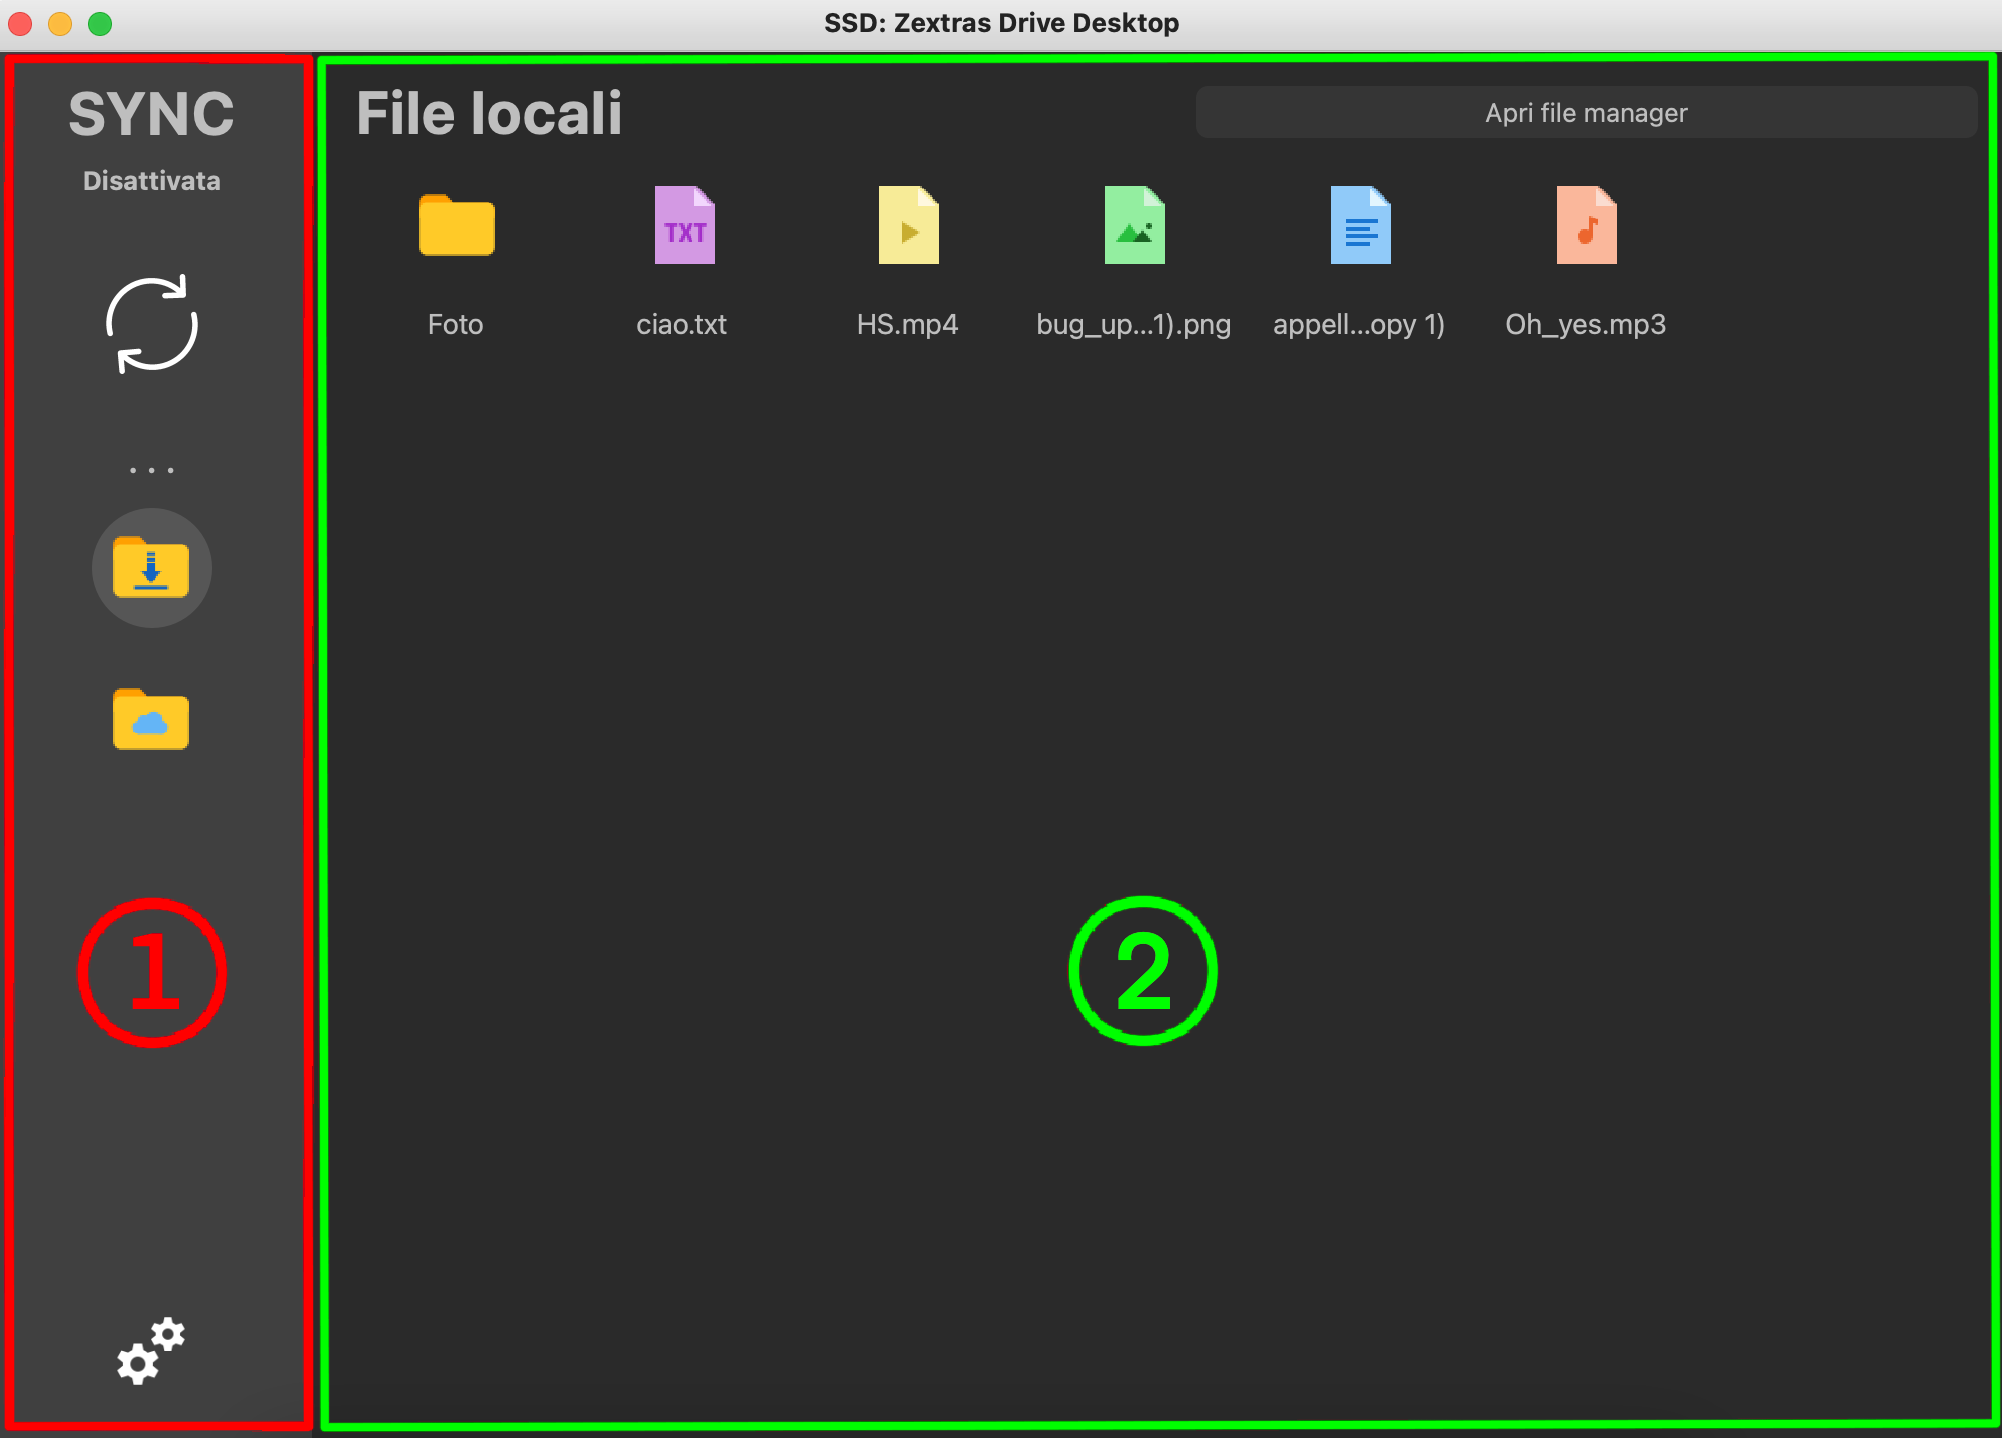
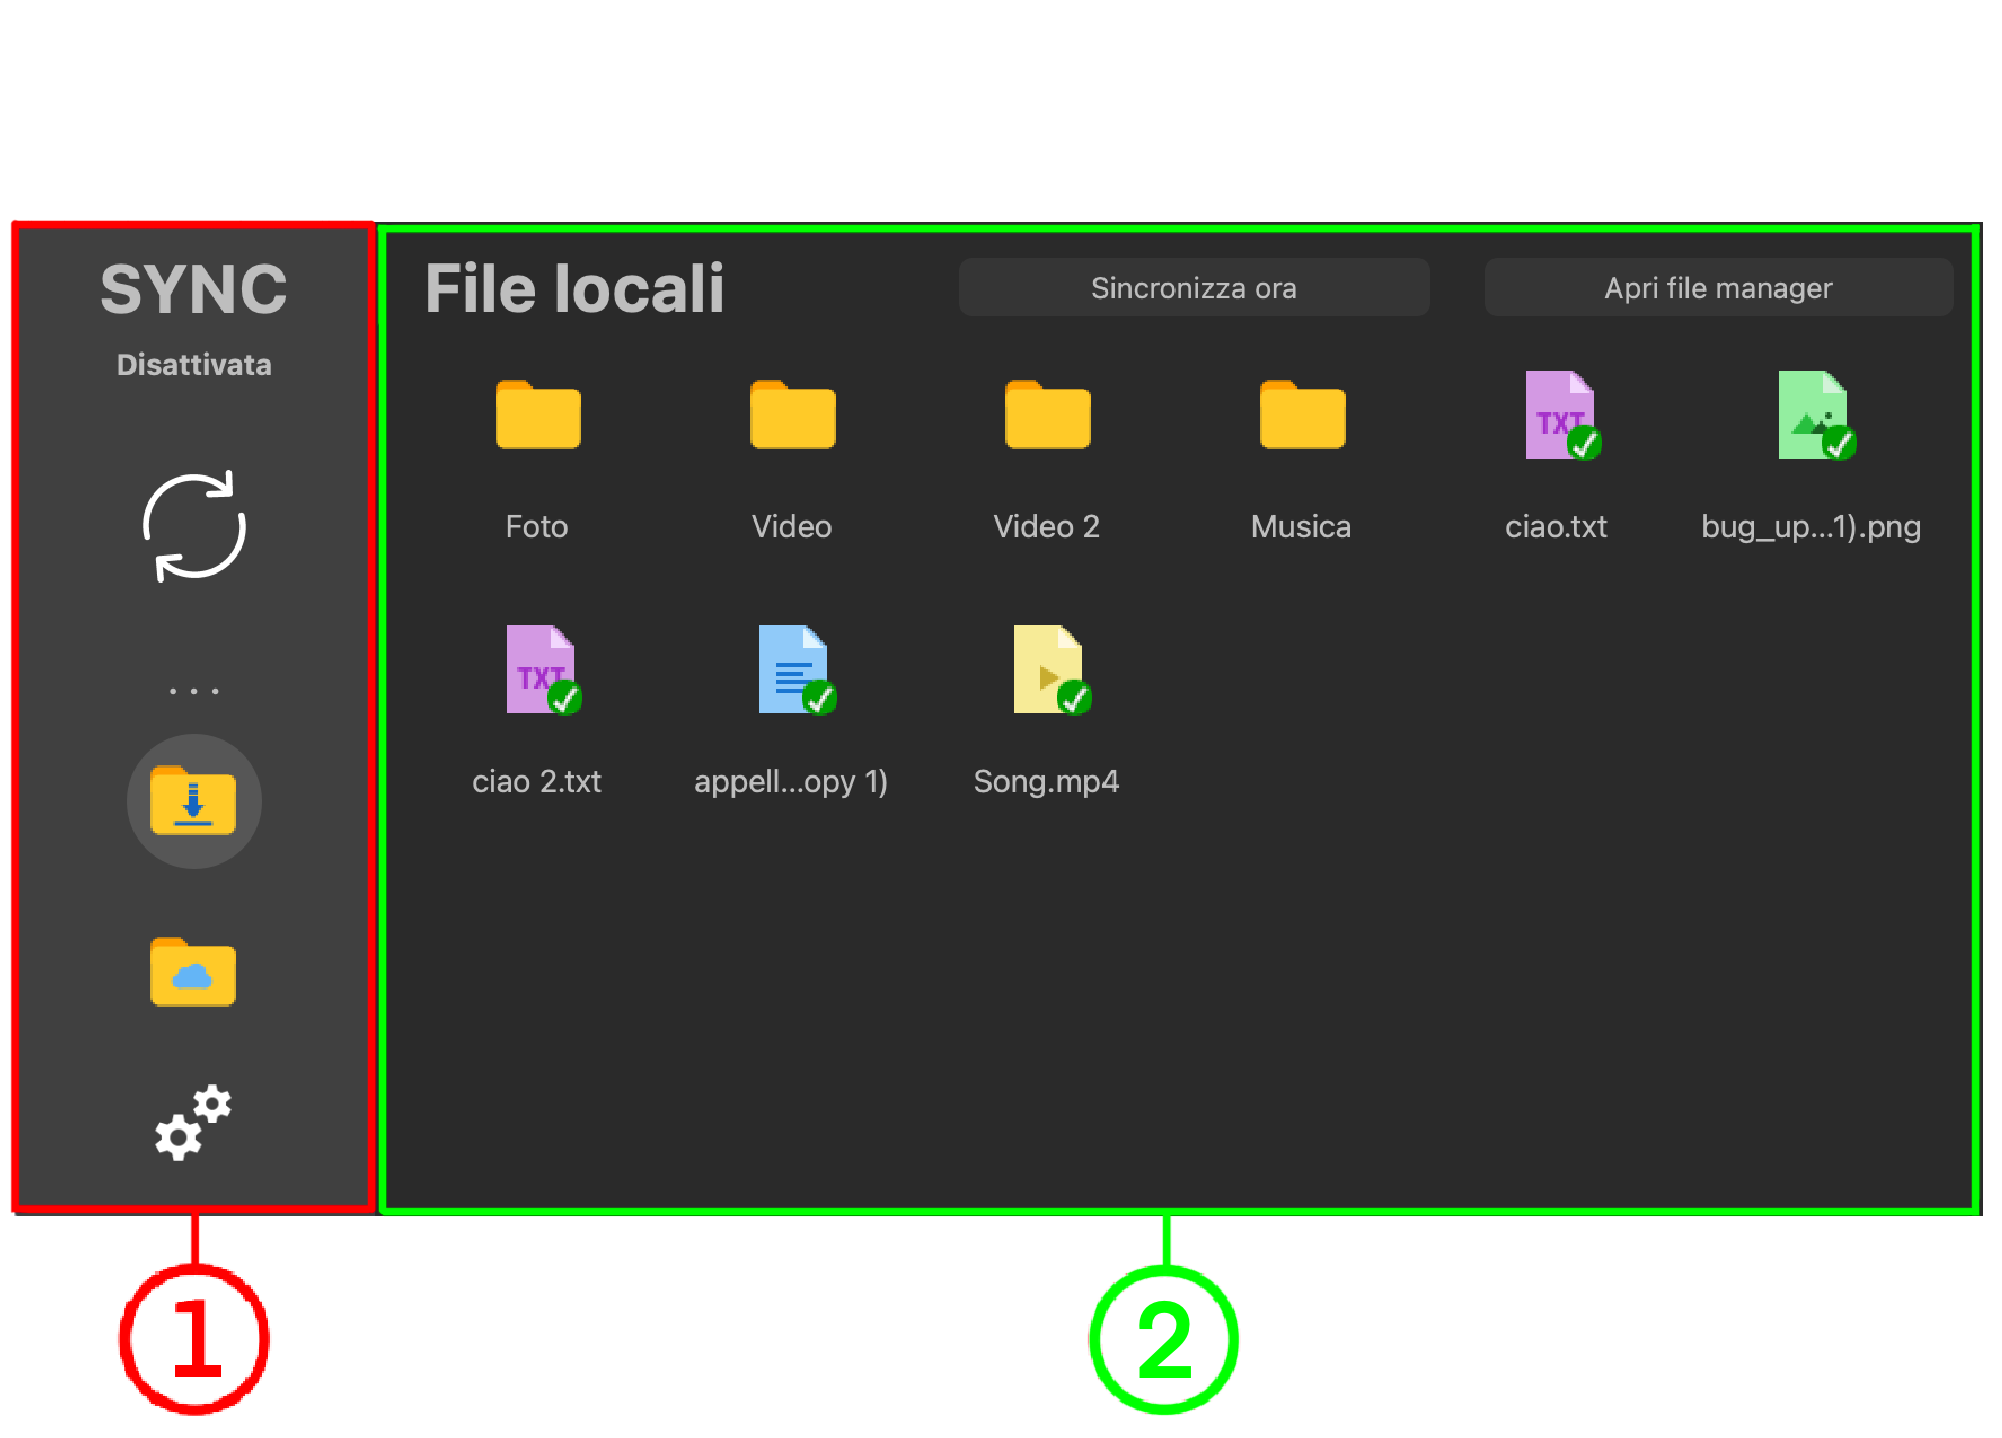
Update immagini
Da cambiare delle sezioni

diff --git a/Esterni/ManualeUtente/components/c4-Istruzioni_per_utilizzo-MU.tex b/Esterni/ManualeUtente/components/c4-Istruzioni_per_utilizzo-MU.tex
@@ -100,7 +100,7 @@ Il menù laterale, rappresentato nel punto 1 della Fig. \ref{fig:principale}, è
 \label{sec:fileLocali}
 \begin{figure}[H]
     \centering
-    \includegraphics[scale = 0.7]{components/img/fileLocali.png}
+    \includegraphics[scale = 0.9]{components/img/fileLocali.png}
     \caption{Vista file locali}
     \label{fig:fileSync}
 \end{figure}
@@ -130,18 +130,33 @@ La vista si compone di una serie di icone che rappresentano i file o le cartelle
 \label{sec:iconeSync}
 \subsubsection{Spunta su sfondo verde}
 
-immagine icona verde\newline
+\begin{figure}[H]
+    \centering
+    \includegraphics[scale = 0.8]{components/img/iconIsSync.png}
+    \caption{Icona file sincronizzato}
+    \label{fig:greenI}
+\end{figure}
 
 Quando sull'icona del file è presente una spunta su sfondo verde nell'angolo in basso a destra il file è sincronizzato con il server.
 \subsubsection{Frecce su sfondo blu}
 
-immagine icona blu\newline
+\begin{figure}[H]
+    \centering
+    \includegraphics[scale = 1.6]{components/img/iconSync.png}
+    \caption{Icona file in sincronizzazione}
+    \label{fig:bluedownI}
+\end{figure}
 
 Quando sull'icona del file sono presenti due frecce su sfondo blu il file sta venendo sincronizzato con il server.
 
 \subsubsection{Freccia verso il basso su sfondo blu}
 
-immagine icona blu\newline
+\begin{figure}[H]
+    \centering
+    \includegraphics[scale = 0.8]{components/img/iconUpdate.png}
+    \caption{Icona file segnato da aggiornare}
+    \label{fig:greenI}
+\end{figure}
 
 Quando sull'icona dei file remoti è presente una freccia su sfondo blu che punta in basso, significa che quel file verrà aggiornato ogni volta che nel server sono presenti delle modifiche.
 
